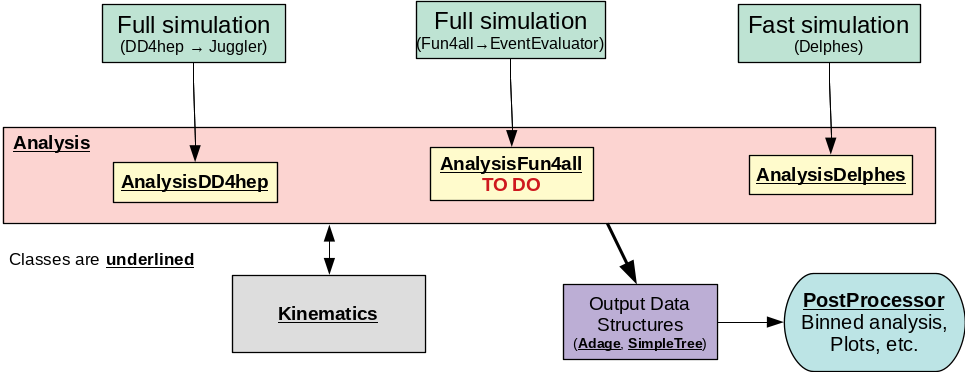
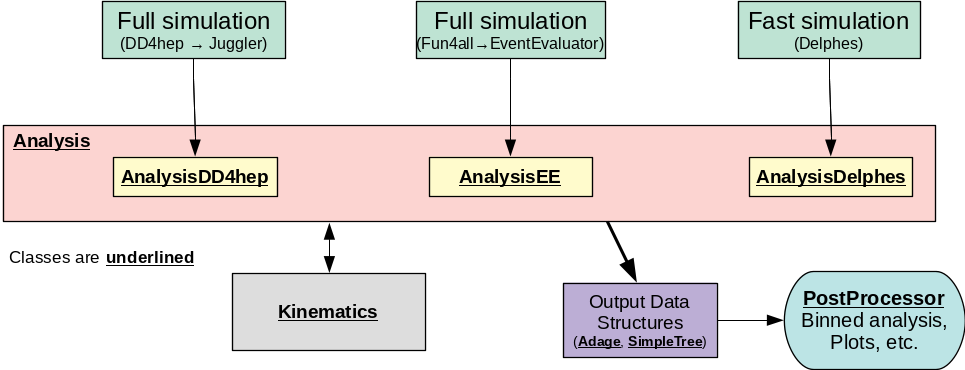
documentation

diff --git a/README.md b/README.md
@@ -156,6 +156,11 @@ upstream simulation output:
 - See the event loop in `src/AnalysisDD4hep.cxx` for details of how the full
   simulation data are read
 
+## ECCE Full Simulation
+
+- Similar implementation as ATHENA full simulation, but use `AnalysisEE` to
+  read `EventEvaluator` output files
+
 ---
 
 
@@ -198,8 +203,9 @@ and follow the [README](tutorial/README.md).
       scheme (handled by the `BinSet` class); downstream post processing code
       makes use of these streamed objects, rather than the `TObjArray`s
   - derived classes are specific to upstream data structures:
-    - `AnalysisDelphes` for Delphes trees
-    - `AnalysisDD4hep` for trees from the DD4hep+Juggler stack
+    - `AnalysisDelphes` for Delphes trees (fast simulations)
+    - `AnalysisDD4hep` for trees from the DD4hep+Juggler stack (ATHENA full simulations)
+    - `AnalysisEE` for trees from the Fun4all+EventEvaluator stack (ECCE full simulations)
   - the `Kinematics` class is used to calculate all kinematics
     - `Analysis`-derived classes have one instance of `Kinematics` for generated
       variables, and another for reconstructed variables, to allow quick

diff --git a/tutorial/README.md b/tutorial/README.md
@@ -33,8 +33,9 @@ To run tutorials, you need to generate or obtain ROOT files, from fast or full s
 ### Switching between Fast and Full Simulations
 - many of these examples focus on fast simulations; to switch between fast and
   full simulations, change the `Analysis`-derived class in the macro:
-  - `AnalysisDelphes` is used for fast simulation
-  - `AnalysisDD4hep` is used for full simulation from DD4hep+Juggler
+  - `AnalysisDelphes` for Delphes trees (fast simulations)
+  - `AnalysisDD4hep` for trees from the DD4hep+Juggler stack (ATHENA full simulations)
+  - `AnalysisEE` for trees from the Fun4all+EventEvaluator stack (ECCE full simulations)
 - note: some extra settings and features differ between these
 
 ### Input File Lists (Config Files)
